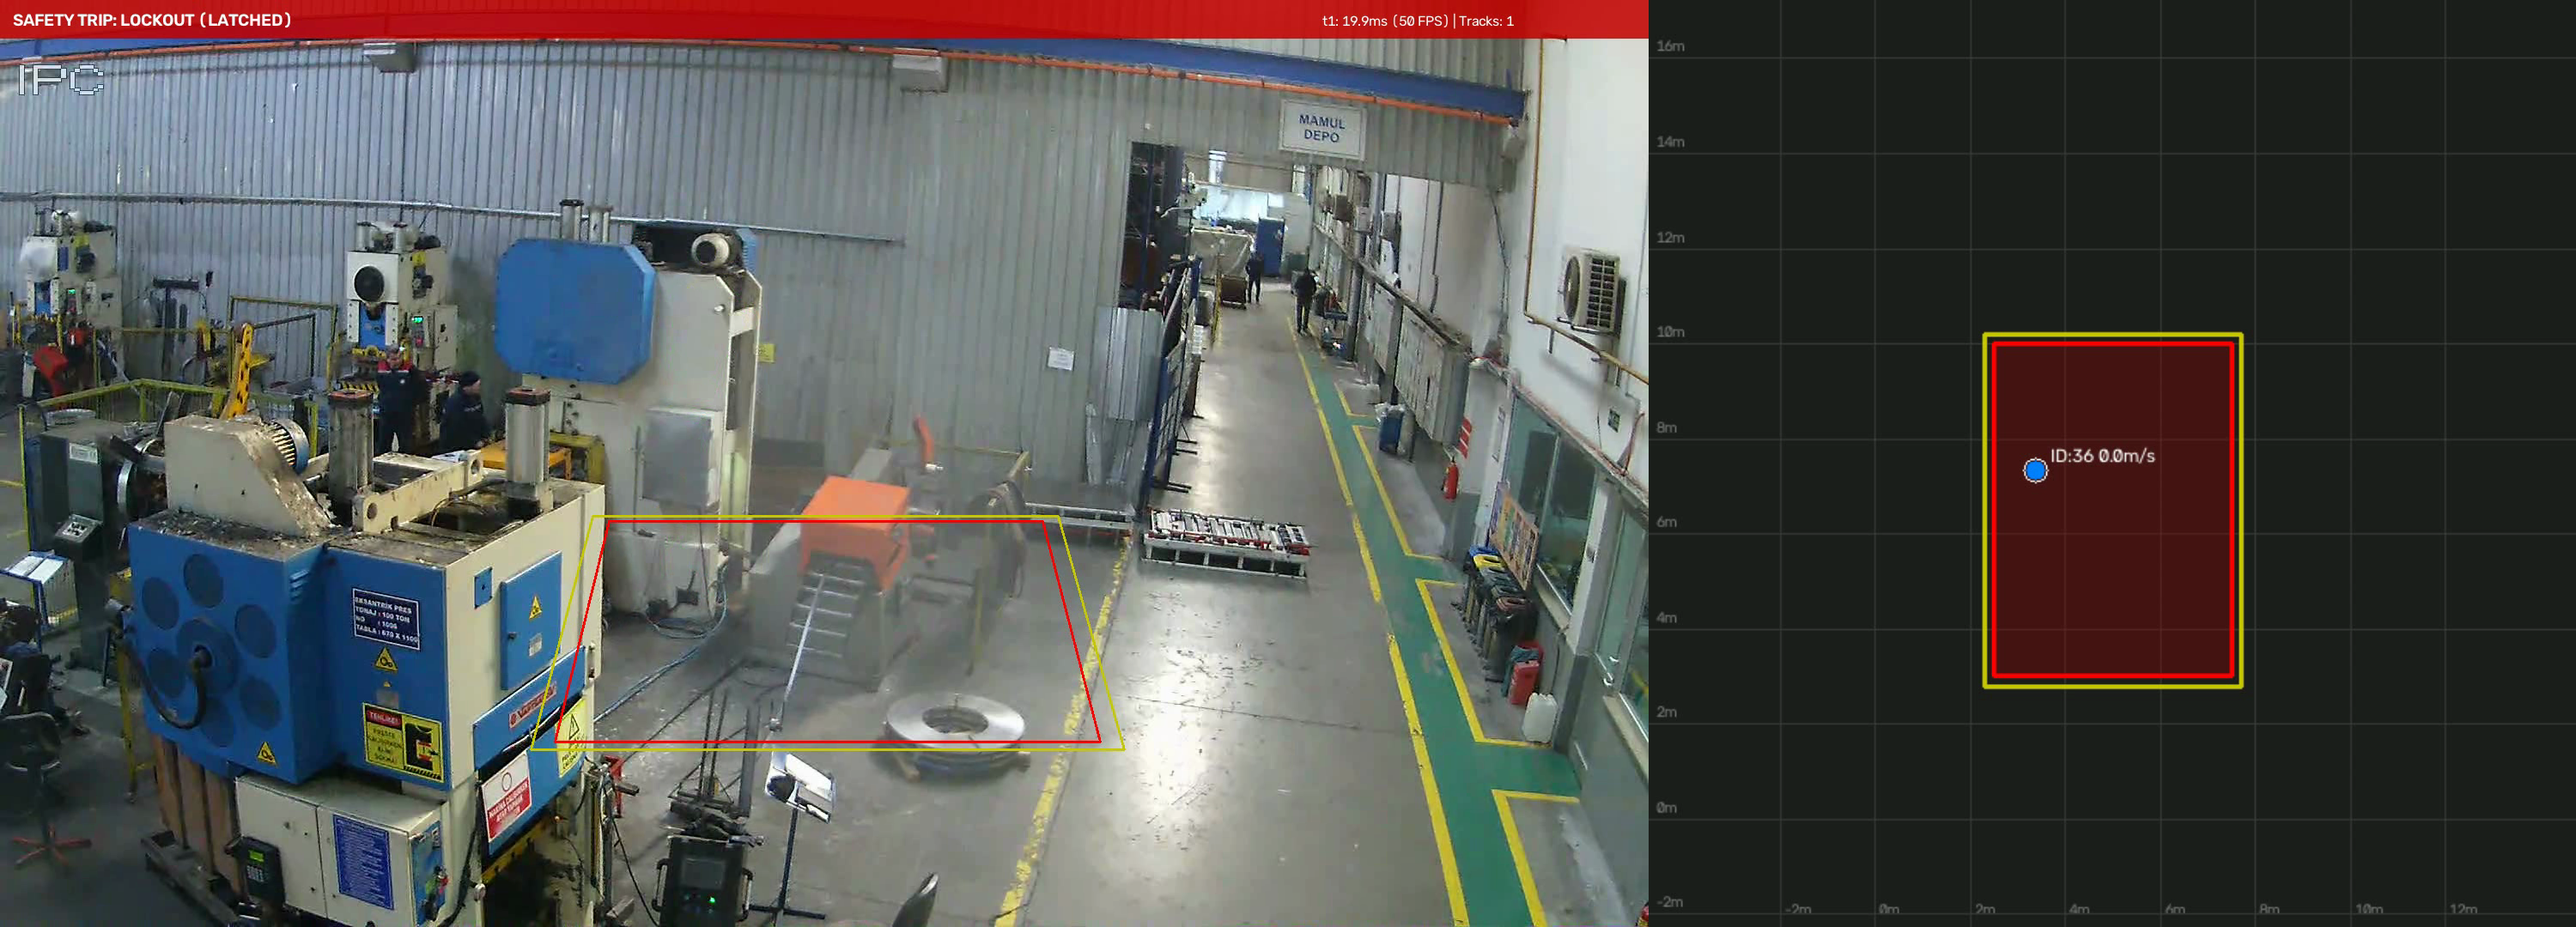
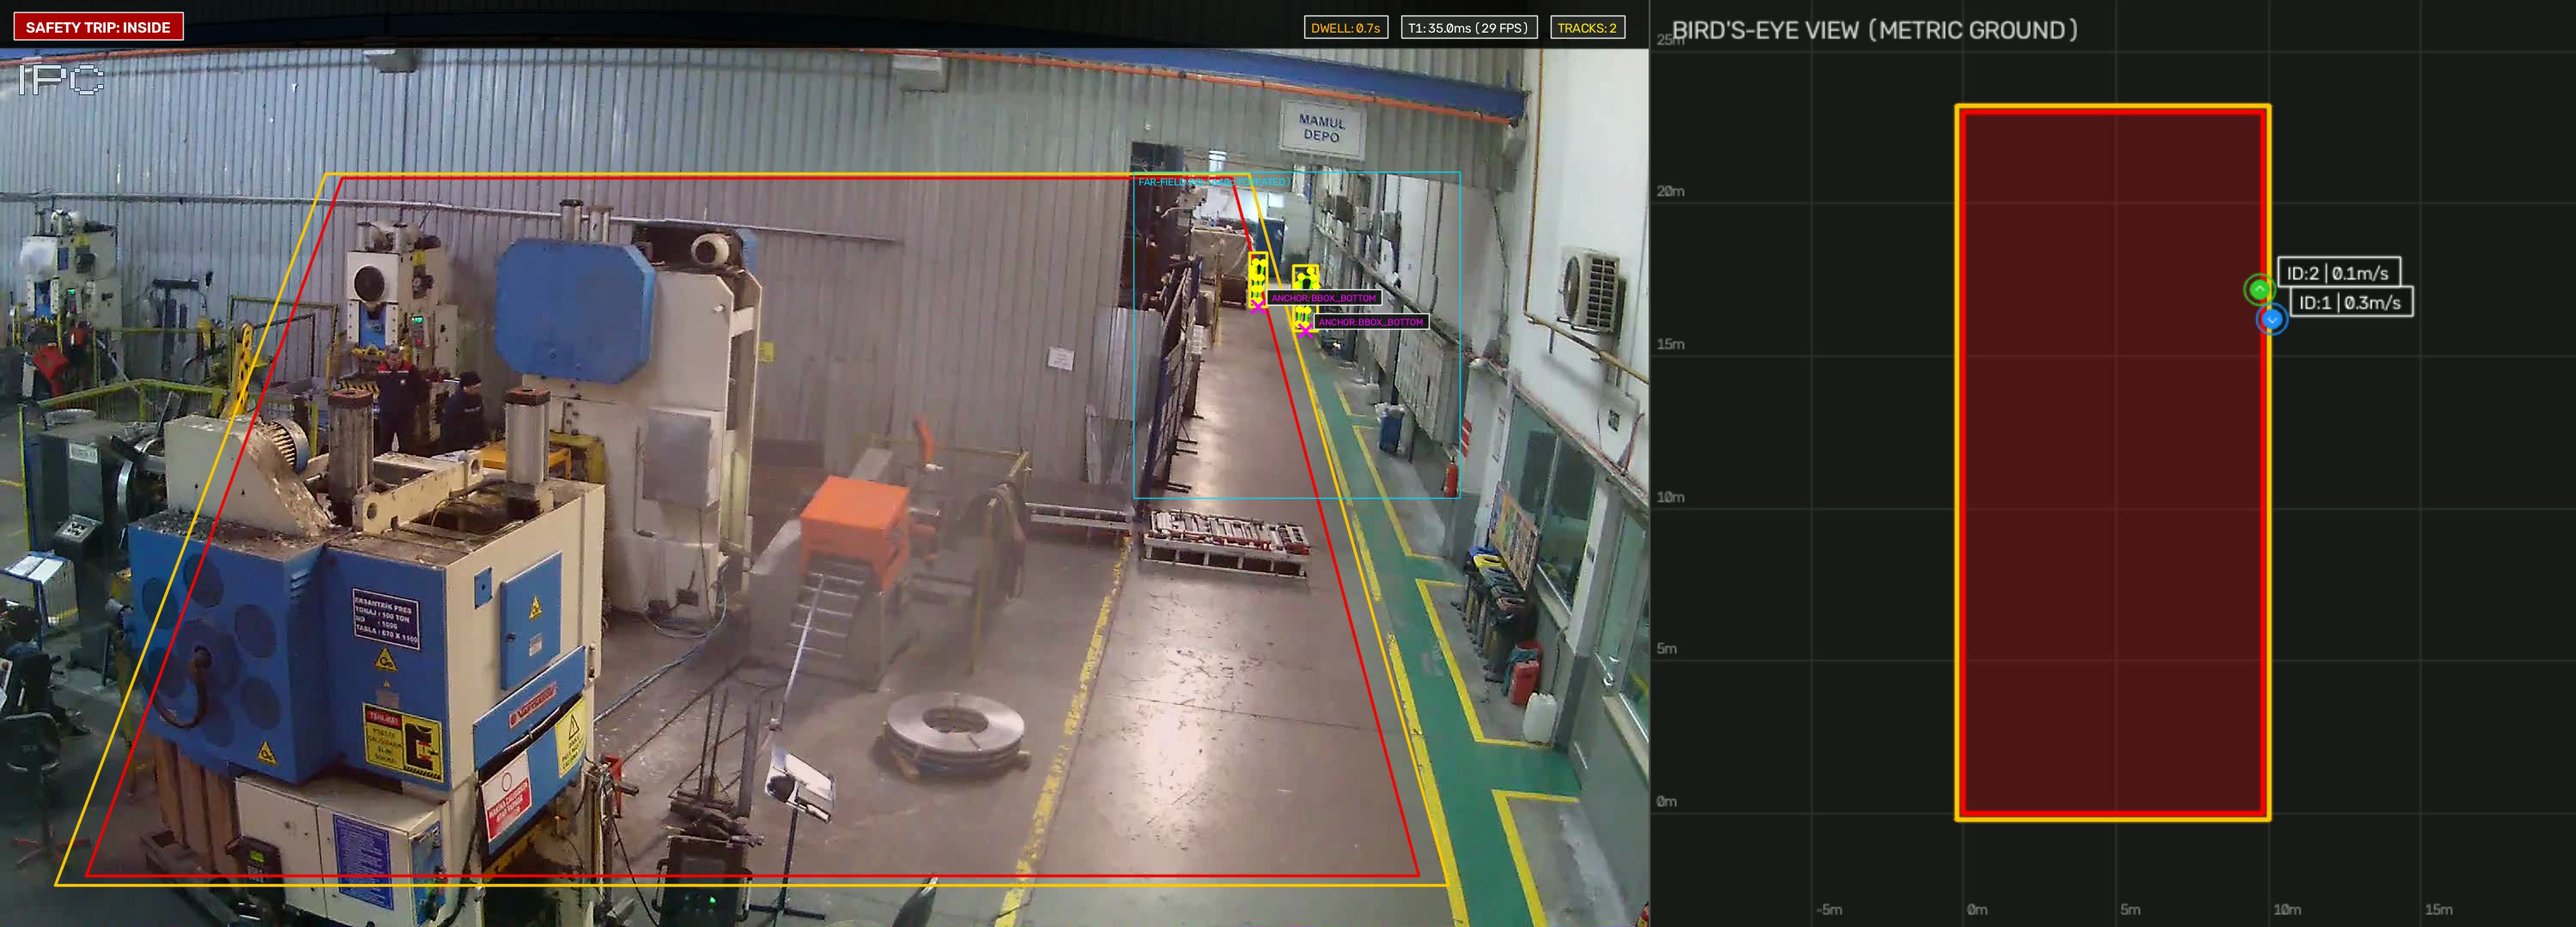
docs(figures): update demo_factory_walkway GIF and add demo_unauthorized_intervention visual showcase

diff --git a/docs/decisions/adr-013-foveated-far-field-roi-inference.md b/docs/decisions/adr-013-foveated-far-field-roi-inference.md
@@ -131,6 +131,16 @@ Se evaluó el comportamiento comparativo entre el modo estándar (pasada única 
 | **`mendeley_industrial` (173 f)** | Pista inicia tarde en cuadro 53 | **Rastreado desde Cuadro 3** ($[10.04, 15.23]\text{ m} \to 12.58\text{ m}$) | 10 tracks únicos, 65 `WARNING`, 73 `DANGER` |
 | **`mendeley_industrial` Latencia $T_1$** | $15.35\text{ ms}$ ($p_{95} = 18.26\text{ ms}$) | **$30.38\text{ ms}$ ($p_{95} = 33.81\text{ ms}$)** | **$\le 50\text{ ms}$ (Presupuesto ISO 13855 cumplido)** |
 
+<div align="center">
+  <img src="../figures/demo_factory_walkway_dual_view.png" alt="Foveated Far-Field ROI Detection on Mendeley Walkway Violation" width="95%" />
+  <p><em>Figura 1: Validación en <code>mendeley_walkway_violation</code> (Frame 145). La ROI foveada (recuadro cian) detecta a los dos operarios bajo el cartel MAMUL DEPO ($Y_w \approx 16.2\text{–}17.1\text{ m}$) con anclaje <code>BBOX_BOTTOM</code> y activa <code>SAFETY TRIP: INSIDE</code> al cruzar el borde amarillo ($X_w < 10.0\text{ m}$).</em></p>
+</div>
+
+<div align="center">
+  <img src="../figures/demo_unauthorized_intervention_dual_view.png" alt="Scale-Adaptive Tracking on Mendeley Industrial" width="95%" />
+  <p><em>Figura 2: Validación en <code>mendeley_industrial</code> (Frame 125). Operación simultánea de anclaje anatómico de alta precisión (<code>ANKLES_DUAL</code>, operario cercano a $Y_w \approx 3.1\text{ m}$) y anclaje por ROI foveada (<code>BBOX_BOTTOM</code>, operario lejano a $Y_w \approx 12.6\text{ m}$) en $T_1 = 32.2\text{ ms}$.</em></p>
+</div>
+
 ---
 
 ## 5. Consecuencias y Límites de Cobertura Operacional (ODD)

diff --git a/README.md b/README.md
@@ -507,7 +507,12 @@ In addition to the scientific benchmark matrix, the repository provides 8 config
 
 <div align="center">
   <img src="docs/figures/demo_factory_walkway.gif" alt="Industrial Manufacturing Shopfloor CCTV Homography & Walkway Monitoring" width="100%" />
-  <p><em>Real-World Shopfloor Validation: CCTV Monocular Stream in Heavy Metalworking Bay with Planar Homography and Metric Walkway Safety Boundaries (<code>mendeley_walkway_violation</code>).</em></p>
+  <p><em>Case 1 — Far-Corridor Walkway Violation (<code>mendeley_walkway_violation</code>): Foveated Far-Field ROI (<code>[1320, 200, 1700, 580]</code>) tracks distant workers under the MAMUL DEPO sign ($Y_w \in [15, 22]\text{ m}$) using <code>BBOX_BOTTOM</code> anchors, triggering <code>SAFETY TRIP: INSIDE</code> when stepping left of the green walkway border ($X_w < 10.0\text{ m}$).</em></p>
+</div>
+
+<div align="center">
+  <img src="docs/figures/demo_unauthorized_intervention.gif" alt="Industrial Manufacturing Shopfloor Scale-Adaptive Pose & Foveated ROI" width="100%" />
+  <p><em>Case 2 — Scale-Adaptive Multi-Zone Tracking (<code>mendeley_industrial</code>): Simultaneous tracking of a foreground operator using anatomical ankle keypoints (<code>ANKLES_DUAL</code>, $Y_w \approx 3.1\text{ m}$) and a distant corridor operator using foveated ROI bounding-box fallback (<code>BBOX_BOTTOM</code>, $Y_w \approx 12.6\text{ m}$) within $T_1 \approx 30.4\text{ ms}$.</em></p>
 </div>
 
 #### Why Specific Runtime Parameters Are Loaded
